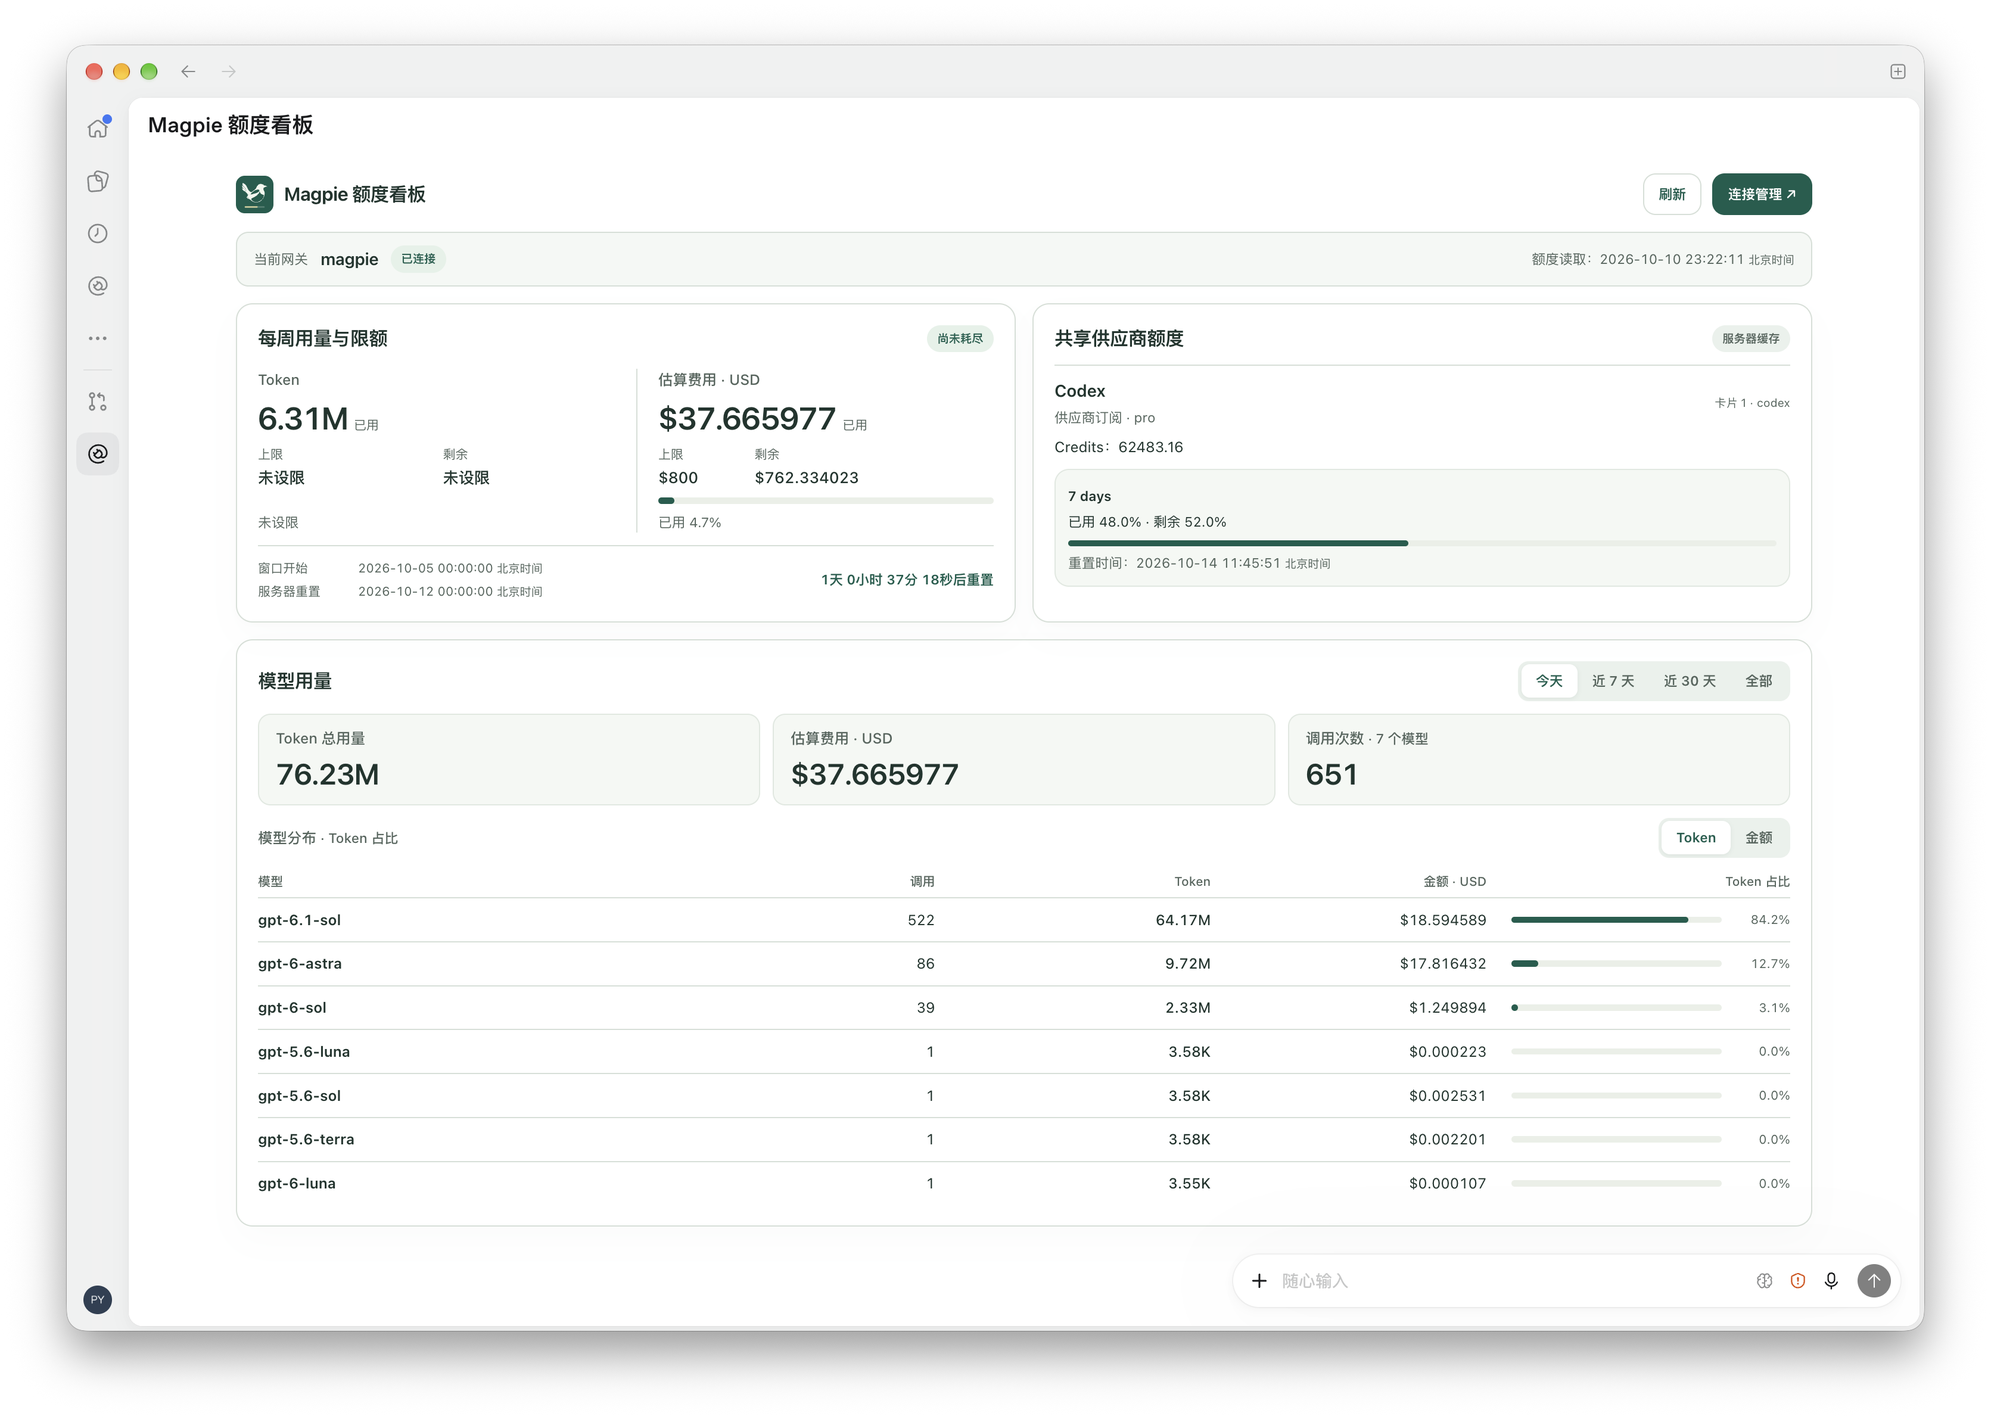
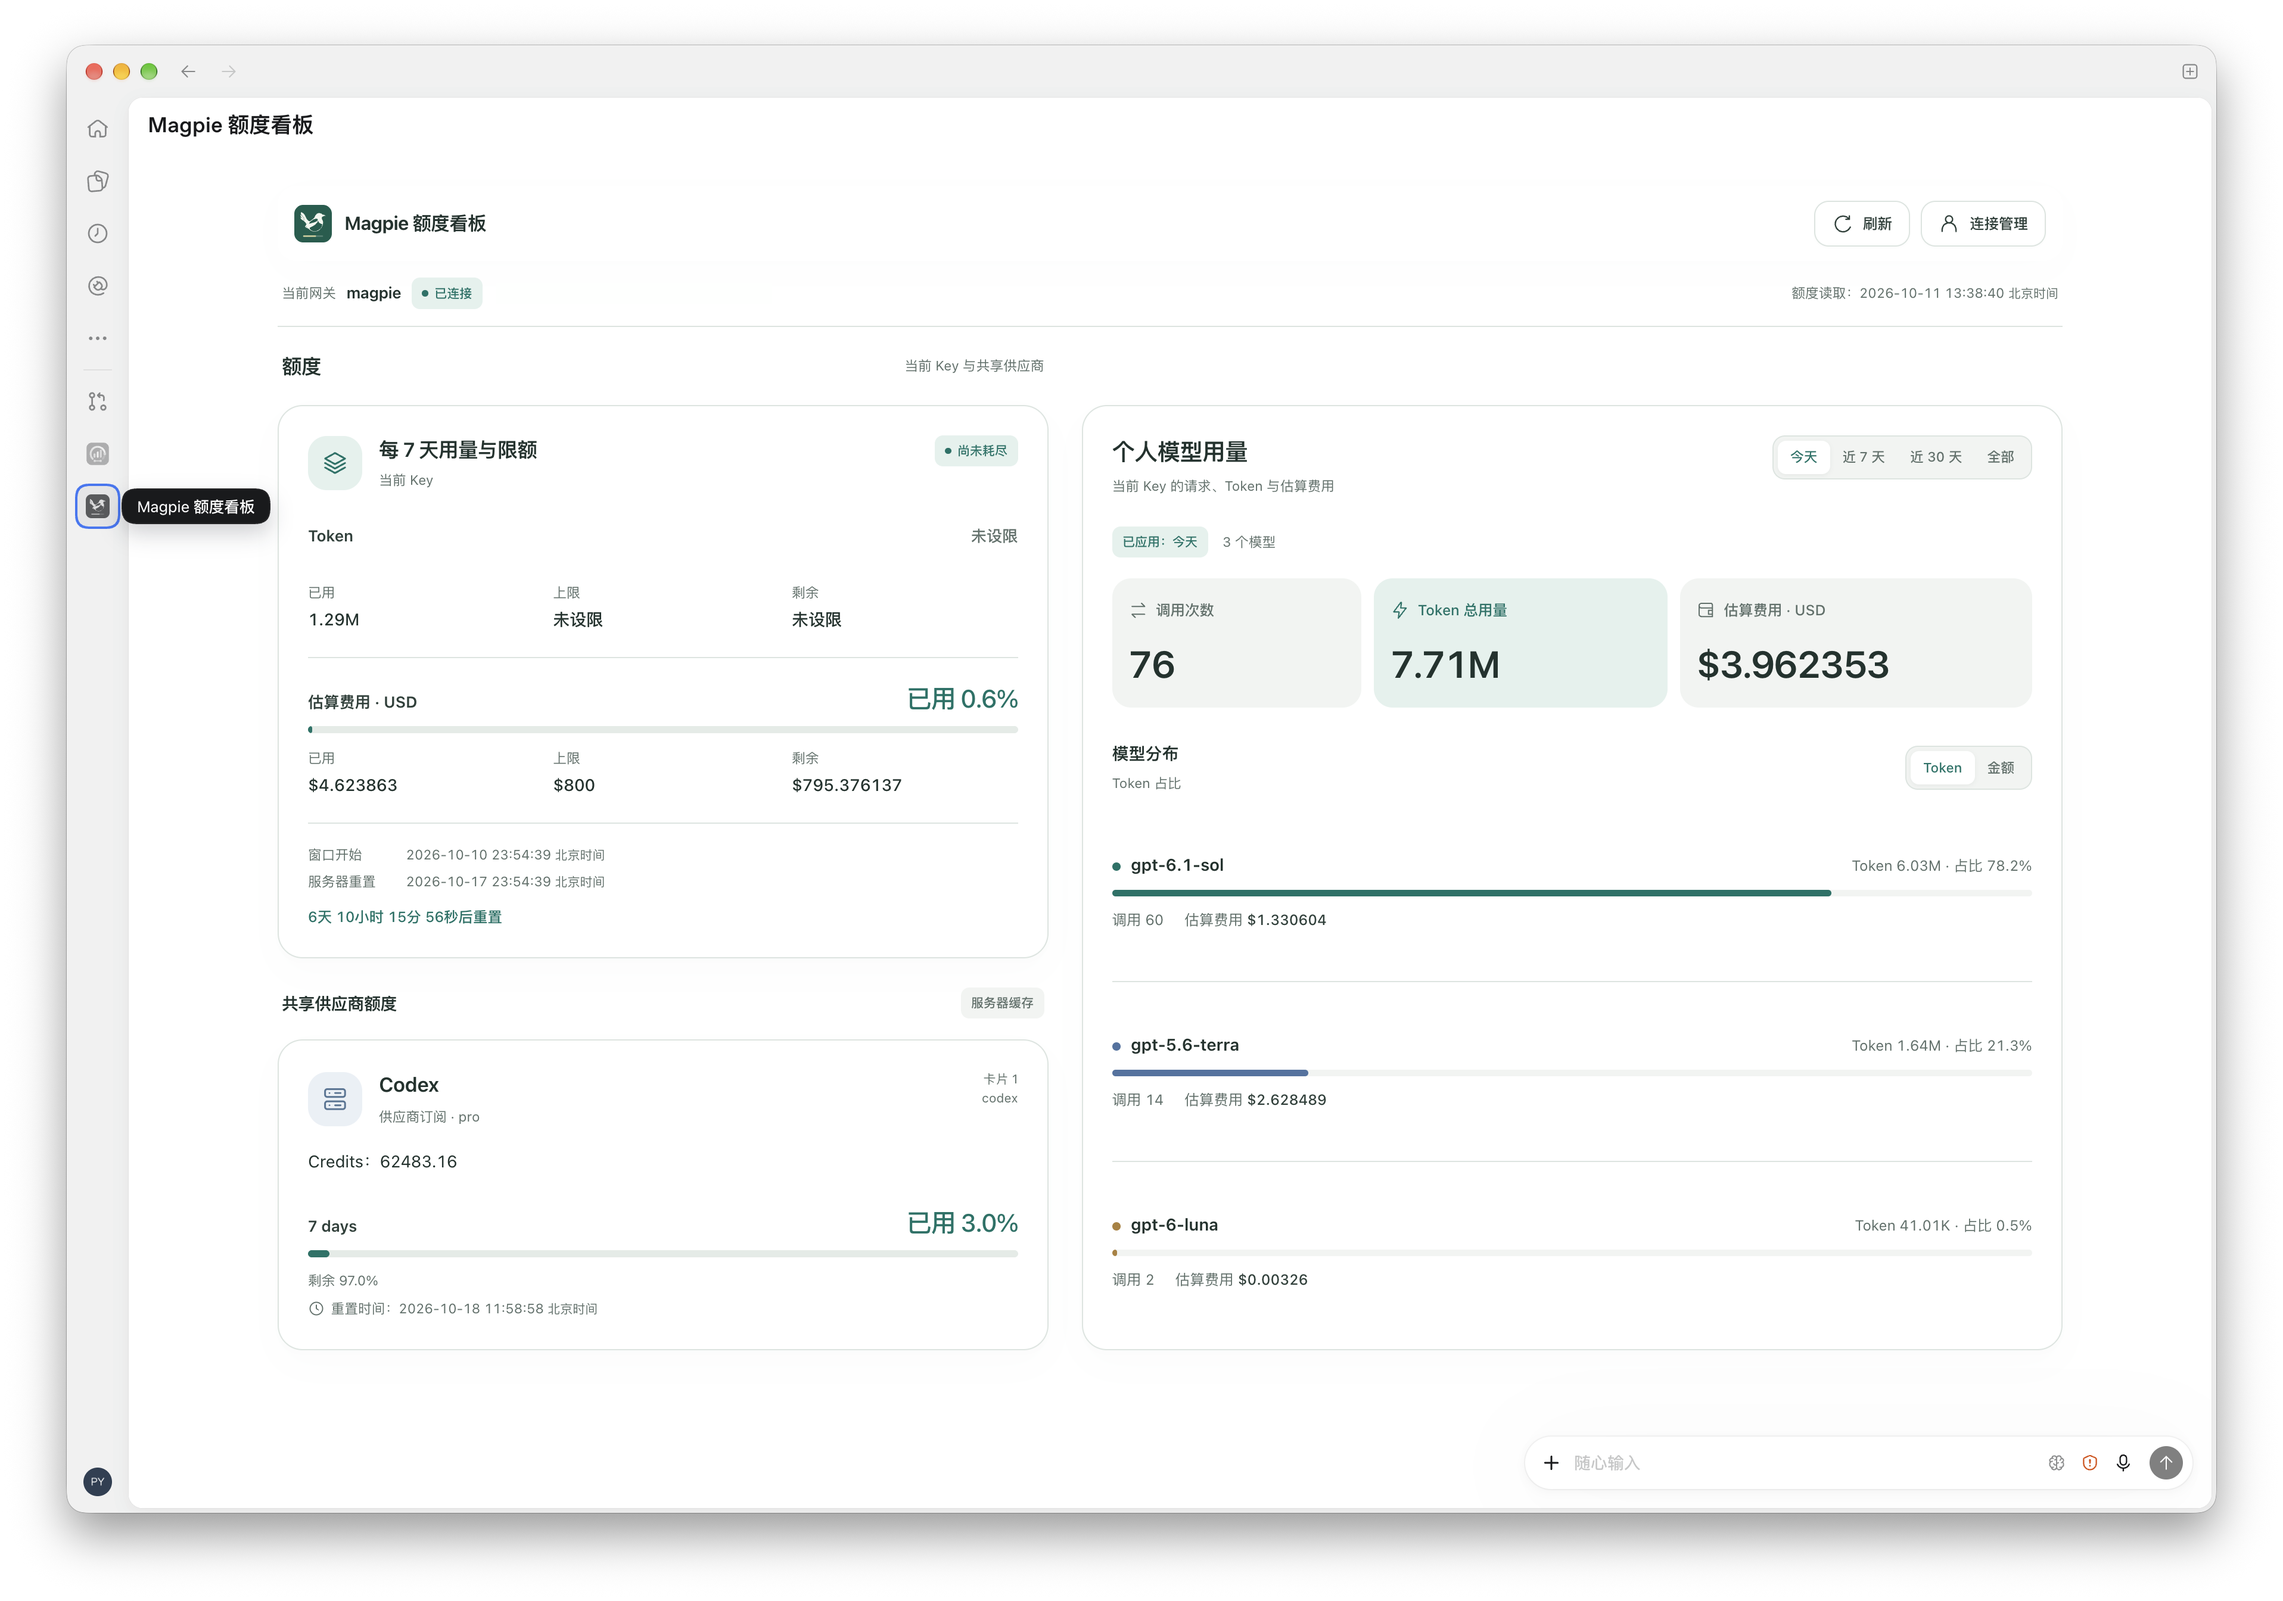
docs: 更新看板截图并隐藏服务器地址

diff --git a/docs/validation.md b/docs/validation.md
@@ -1,5 +1,9 @@
 # 本地验证记录
 
+## 2026-10-11 README 截图更新
+
+按用户提供的新截图替换 `docs/dashboard-preview.png`，保留原始 3832 × 2688 分辨率。服务器地址所在区域以纯色完全覆盖，逐像素核对确认覆盖区域外与原图一致；重新保存的 PNG 不携带原图 EXIF、XMP 或其他元数据。已目视检查最终图片，服务器地址不可见，其余界面与数据保持原样。截图通过现有打包与 marketplace 同步流程交付，未改动插件代码或版本号。
+
 ## 2026-10-11 v0.1.4 发布验证
 
 包含参考卡片布局与桌面左右列等高修复，以及 `npm run ui:dev` 开发预览入口。开发预览使用独立临时构建目录，保存源码后自动重建并刷新；构建失败时保留上一版，修复后恢复。只读桥接限定看板与连接状态查询，校验 Host / Origin 和参数，丢弃重建前的迟到结果。

diff --git a/plugins/magpie-quota-local/docs/validation.md b/plugins/magpie-quota-local/docs/validation.md
@@ -1,5 +1,9 @@
 # 本地验证记录
 
+## 2026-10-11 README 截图更新
+
+按用户提供的新截图替换 `docs/dashboard-preview.png`，保留原始 3832 × 2688 分辨率。服务器地址所在区域以纯色完全覆盖，逐像素核对确认覆盖区域外与原图一致；重新保存的 PNG 不携带原图 EXIF、XMP 或其他元数据。已目视检查最终图片，服务器地址不可见，其余界面与数据保持原样。截图通过现有打包与 marketplace 同步流程交付，未改动插件代码或版本号。
+
 ## 2026-10-11 v0.1.4 发布验证
 
 包含参考卡片布局与桌面左右列等高修复，以及 `npm run ui:dev` 开发预览入口。开发预览使用独立临时构建目录，保存源码后自动重建并刷新；构建失败时保留上一版，修复后恢复。只读桥接限定看板与连接状态查询，校验 Host / Origin 和参数，丢弃重建前的迟到结果。
